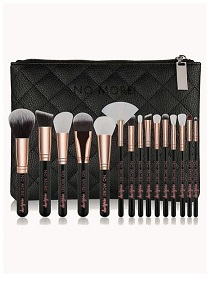
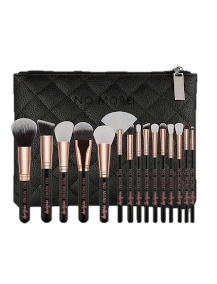
arreglo brochas

diff --git a/index.html b/index.html
@@ -187,7 +187,7 @@
 <div class="w3-row-padding"><span class="image fit">
 	<div class="card">
 	<div class="imgBox">
-		<a href="brochas.html"><img src="images/slider brochas.jpg" aling="Center"></a>
+		<a href="brochas.html"><img src="images/slider-brochas.jpg" aling="Center"></a>
 		</span>
 	</div>
 	<div class="details">
